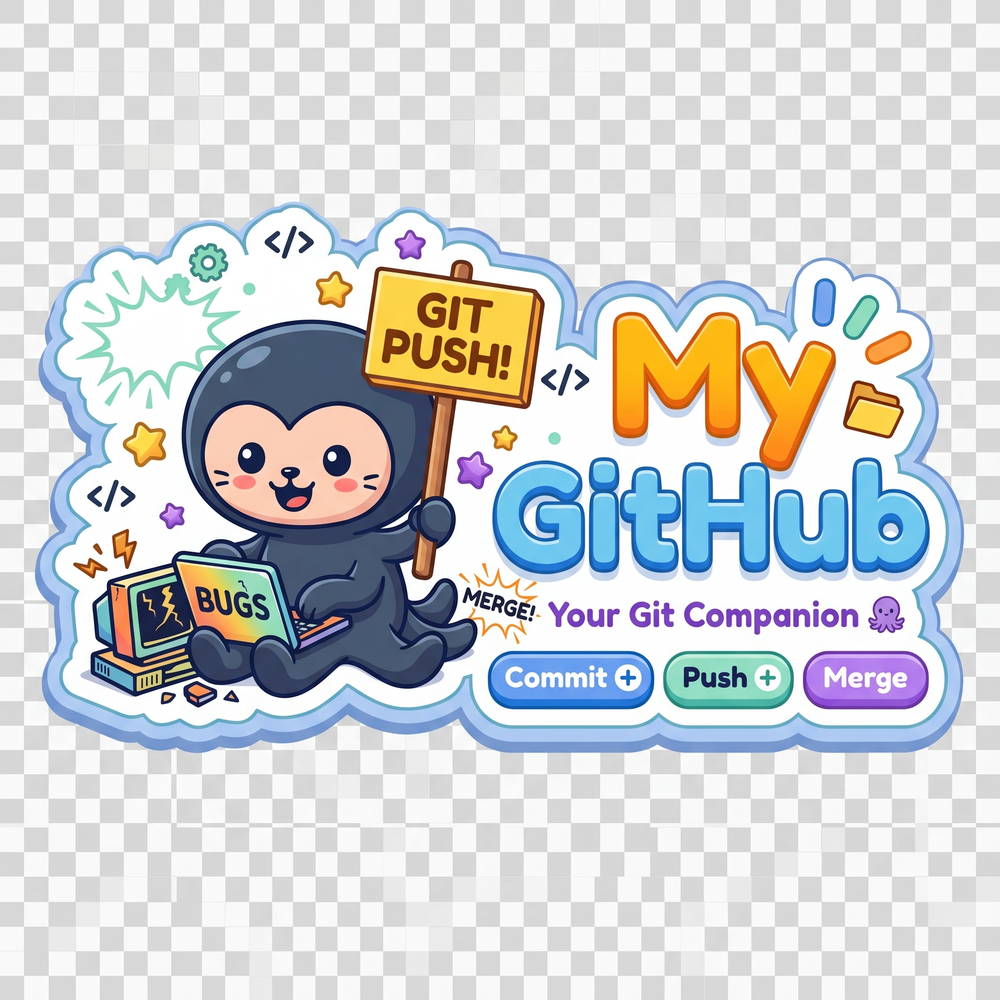
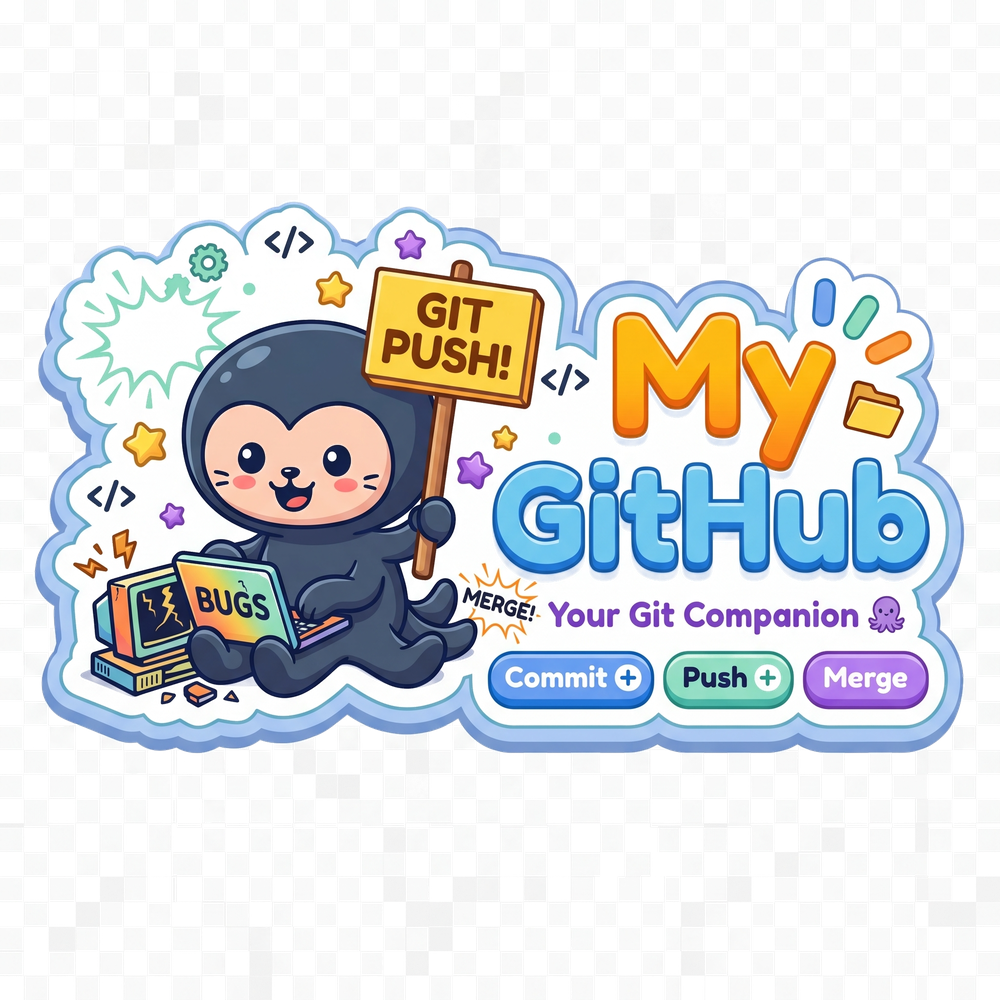
fix: transparent hero image and working status badges
Two rendering problems in the README header:

1. The hero image carried a light-grey background, which GitHub
   rendered as a checkered transparency pattern. Regenerated with a
   true alpha channel so it blends into both light and dark themes.

2. The release and download badges query GitHub releases, which do
   not exist yet, so they rendered as red error pills. Replaced with
   a static version badge plus a star badge, alongside the existing
   last-commit and license badges.

diff --git a/README.zh.md b/README.zh.md
@@ -9,10 +9,10 @@
 <p><strong>一个完全跑在你手机上的 GitHub 客户端</strong></p>
 <p>Android · 零服务器 · 本地优先 · TOTP · Jetpack Compose</p>
 
-[![Release](https://img.shields.io/github/v/release/angusdevgo/MyGitHub?style=flat-square&color=3B5BDB)](https://github.com/angusdevgo/MyGitHub/releases)
-[![Downloads](https://img.shields.io/github/downloads/angusdevgo/MyGitHub/total?style=flat-square)](https://github.com/angusdevgo/MyGitHub/releases)
+[![Version](https://img.shields.io/badge/version-v0.0.1-3B5BDB?style=flat-square)](https://github.com/angusdevgo/MyGitHub/releases)
 [![Last Commit](https://img.shields.io/github/last-commit/angusdevgo/MyGitHub?style=flat-square)](https://github.com/angusdevgo/MyGitHub/commits)
 [![License](https://img.shields.io/badge/license-GPL--3.0-blue?style=flat-square)](LICENSE)
+[![Stars](https://img.shields.io/github/stars/angusdevgo/MyGitHub?style=flat-square&color=EBCB8B)](https://github.com/angusdevgo/MyGitHub/stargazers)
 
 [![Platform](https://img.shields.io/badge/android-8.0%2B-3DDC84?style=flat-square&logo=android&logoColor=white)](https://developer.android.com)
 [![Kotlin](https://img.shields.io/badge/kotlin-2.0-7F52FF?style=flat-square&logo=kotlin&logoColor=white)](https://kotlinlang.org)

diff --git a/README.md b/README.md
@@ -9,10 +9,10 @@
 <p><strong>A GitHub client that runs entirely on your phone</strong></p>
 <p>Android · Zero-Server · Local Vault · TOTP · Jetpack Compose</p>
 
-[![Release](https://img.shields.io/github/v/release/angusdevgo/MyGitHub?style=flat-square&color=3B5BDB)](https://github.com/angusdevgo/MyGitHub/releases)
-[![Downloads](https://img.shields.io/github/downloads/angusdevgo/MyGitHub/total?style=flat-square)](https://github.com/angusdevgo/MyGitHub/releases)
+[![Version](https://img.shields.io/badge/version-v0.0.1-3B5BDB?style=flat-square)](https://github.com/angusdevgo/MyGitHub/releases)
 [![Last Commit](https://img.shields.io/github/last-commit/angusdevgo/MyGitHub?style=flat-square)](https://github.com/angusdevgo/MyGitHub/commits)
 [![License](https://img.shields.io/badge/license-GPL--3.0-blue?style=flat-square)](LICENSE)
+[![Stars](https://img.shields.io/github/stars/angusdevgo/MyGitHub?style=flat-square&color=EBCB8B)](https://github.com/angusdevgo/MyGitHub/stargazers)
 
 [![Platform](https://img.shields.io/badge/android-8.0%2B-3DDC84?style=flat-square&logo=android&logoColor=white)](https://developer.android.com)
 [![Kotlin](https://img.shields.io/badge/kotlin-2.0-7F52FF?style=flat-square&logo=kotlin&logoColor=white)](https://kotlinlang.org)
